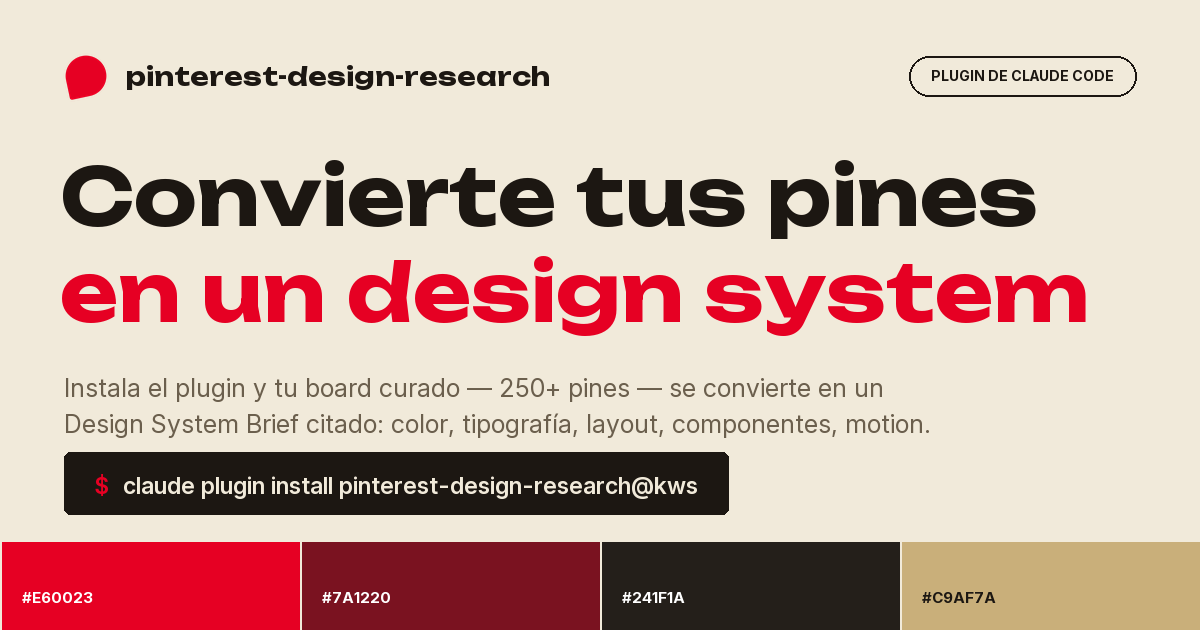
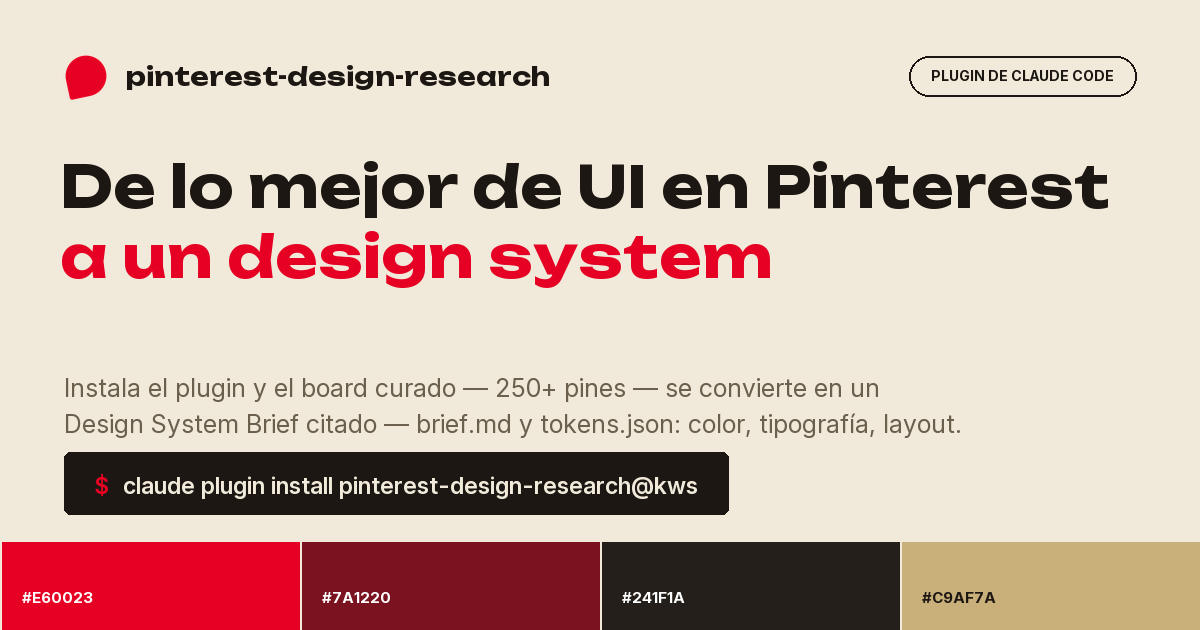
Rewrite the hero around the curated board and the cited brief
"Convierte tus pines en un design system" claimed both things the tool doesn't
do: the pins aren't the visitor's, and the output is a cited brief, not a
finished design system. The new hero — "De lo mejor de UI en Pinterest a un
design system" — points at the shared curated board instead, and the subtext
carries the route from inspiration to artifact: brief.md and tokens.json, with
every claim cited. Titles, descriptions, image alt text and the OG render are
updated together.

diff --git a/netlify/public/index.html b/netlify/public/index.html
@@ -4,7 +4,7 @@
 <meta charset="utf-8">
 <meta name="viewport" content="width=device-width, initial-scale=1">
 <title>Pinterest Design Research — Design System Brief con Claude</title>
-<meta name="description" content="Instala el plugin de Claude Code y convierte tu board de Pinterest ya curado (250+ pines) en un Design System Brief citado: color, tipografía, layout, motion.">
+<meta name="description" content="Design System Brief citado con color, tipografía, layout y motion: instala el plugin de Claude Code y usa el board ya curado de Pinterest (250+ pines).">
 <link rel="canonical" href="https://pinplug.kitifica.com/">
 <meta name="robots" content="index, follow, max-image-preview:large, max-snippet:-1, max-video-preview:-1">
 <meta name="author" content="Kitifica">
@@ -22,21 +22,21 @@
 <meta property="og:site_name" content="Pinterest Design Research">
 <meta property="og:locale" content="es_ES">
 <meta property="og:url" content="https://pinplug.kitifica.com/">
-<meta property="og:title" content="Convierte tus pines en un design system">
-<meta property="og:description" content="El plugin de Claude Code que toma tu board de Pinterest ya curado y lo convierte en un Design System Brief citado: color, tipografía, layout, componentes y motion.">
+<meta property="og:title" content="De lo mejor de UI en Pinterest a un design system">
+<meta property="og:description" content="El plugin de Claude Code que lee el board de referencias ya curado y lo convierte en un Design System Brief citado: brief.md y tokens.json con color, tipografía, layout, componentes y motion.">
 <meta property="og:image" content="https://pinplug.kitifica.com/og-image.png">
 <meta property="og:image:type" content="image/png">
 <meta property="og:image:width" content="1200">
 <meta property="og:image:height" content="630">
-<meta property="og:image:alt" content="Convierte tus pines en un design system — plugin pinterest-design-research para Claude Code">
+<meta property="og:image:alt" content="De lo mejor de UI en Pinterest a un design system — plugin pinterest-design-research para Claude Code">
 <meta property="og:image:secure_url" content="https://pinplug.kitifica.com/og-image.png">
 
 <!-- Twitter / X -->
 <meta name="twitter:card" content="summary_large_image">
-<meta name="twitter:title" content="Convierte tus pines en un design system">
-<meta name="twitter:description" content="El plugin de Claude Code que toma tu board de Pinterest ya curado y lo convierte en un Design System Brief citado: color, tipografía, layout, componentes y motion.">
+<meta name="twitter:title" content="De lo mejor de UI en Pinterest a un design system">
+<meta name="twitter:description" content="El plugin de Claude Code que lee el board de referencias ya curado y lo convierte en un Design System Brief citado: brief.md y tokens.json con color, tipografía, layout, componentes y motion.">
 <meta name="twitter:image" content="https://pinplug.kitifica.com/og-image.png">
-<meta name="twitter:image:alt" content="Convierte tus pines en un design system — plugin pinterest-design-research para Claude Code">
+<meta name="twitter:image:alt" content="De lo mejor de UI en Pinterest a un design system — plugin pinterest-design-research para Claude Code">
 
 <link rel="preconnect" href="https://fonts.googleapis.com">
 <link rel="preconnect" href="https://fonts.gstatic.com" crossorigin>
@@ -287,8 +287,8 @@
   </div>
 
   <h1 class="hero">
-    <span class="cell r">Convierte tus pines</span>
-    <span class="cell accent">en un design system</span>
+    <span class="cell r">De lo mejor de UI en Pinterest</span>
+    <span class="cell accent">a un design system</span>
   </h1>
 
   <div class="swatch-strip">
@@ -300,7 +300,7 @@
 
   <div class="lead-row">
     <div class="cell l">
-      <p>El board de referencias ya está curado y creciendo. Instalas el plugin en cualquier proyecto y Claude mira cada pin guardado y lo convierte en un Design System Brief citado — color, tipografía, layout, componentes, motion.</p>
+      <p>De la inspiración a un artefacto: el board de referencias ya está curado y creciendo, así que solo dices qué construyes. Claude devuelve un Design System Brief citado — <code>brief.md</code> y <code>tokens.json</code> — con color, tipografía, layout, componentes y motion.</p>
     </div>
     <div class="cell">
       <div class="hero-actions">
